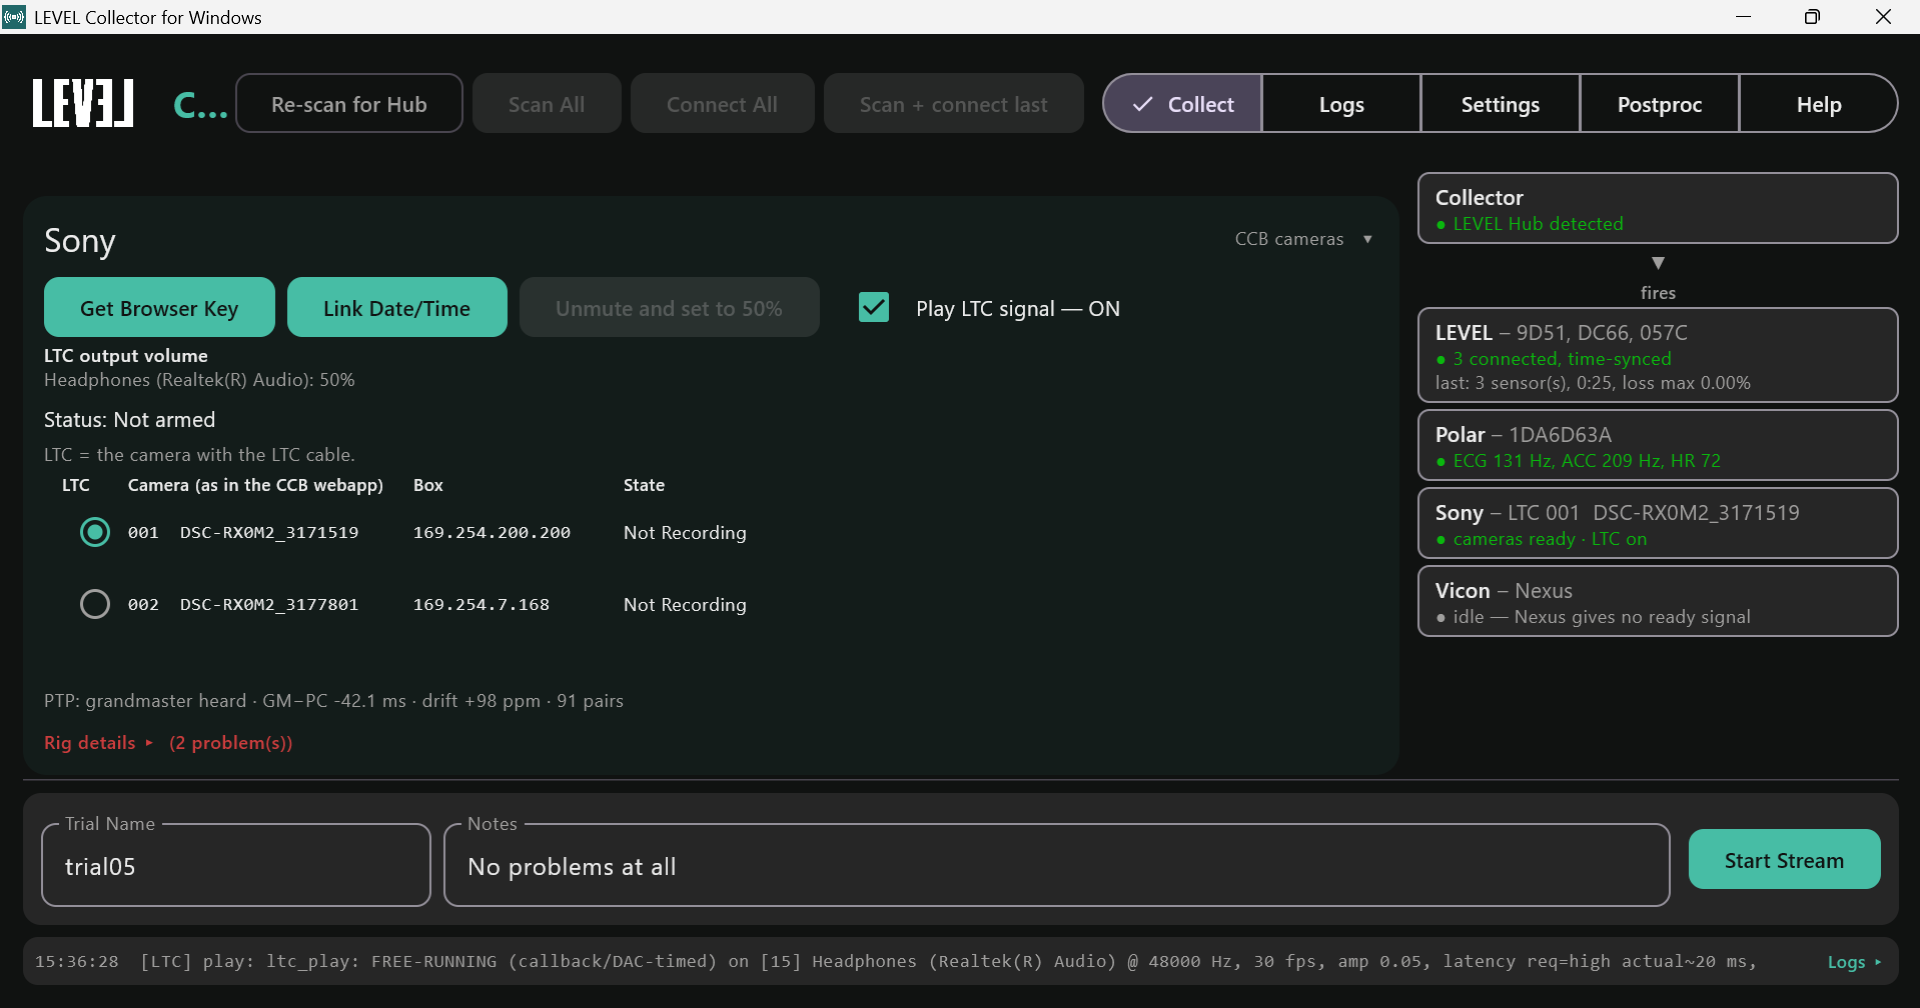
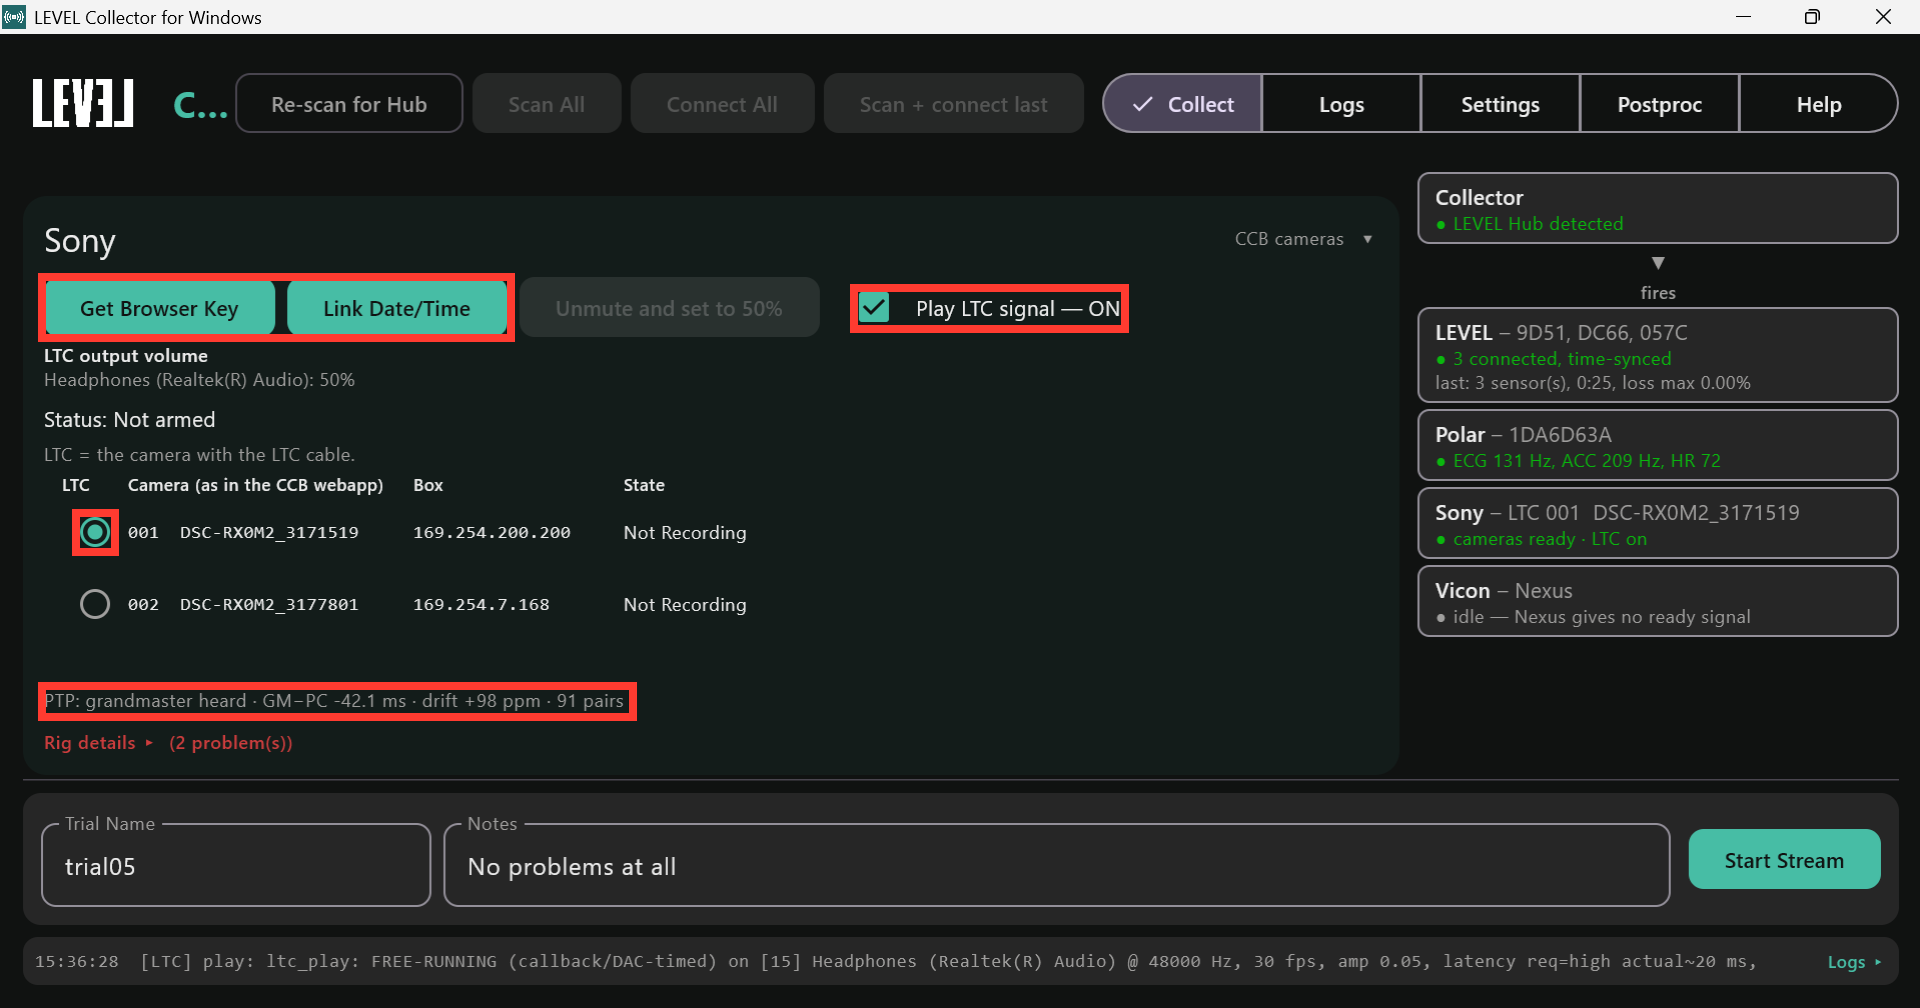
Windows guides: time sync always on, red boxes on screenshots
- Time Sync setting removed from Settings and LEVEL Sensors pages (always on)
- setting-up: drop master clause and On-launch aside
- installing: installer by email, LEVEL Motion start-menu group
- red highlight boxes on 8 Windows screenshots

diff --git a/docs/windows-settings.md b/docs/windows-settings.md
@@ -8,10 +8,10 @@ nav_order: 2
 # Settings
 
 The **Settings** tab is a stack of panels, each with a title you can click to
-fold it away: **Collector Settings**, **LEVEL Sensors**, **Sync**, then one
+fold it away: **Collector Settings**, **Sync**, then one
 panel for each other system that is on.
 
-![Settings tab: Collector Settings with the root folder, On launch switches and the Python interpreter, then the LEVEL Sensors panel with Time Sync](assets/windows-settings/collector-settings.png)
+![Settings tab: Collector Settings with the root folder, On launch switches and the Python interpreter](assets/windows-settings/collector-settings.png)
 
 ## Collector Settings
 
@@ -24,10 +24,10 @@ they are.
 
 ### On launch
 
-**Scan All**, or **Scan All** and **Connect All**, as soon as the Collector
-opens: the same as pressing those buttons at the top of the window. Connect
-All connects the sensors and strap of your last recording, so it needs the
-LEVEL Hub plugged in and the sensors awake at launch.
+Two switches, **Scan** and **Connect**: the Collector presses Scan All, and
+then Connect All, for you as soon as it opens. Connect uses the sensors and
+strap of your last recording, so it needs the LEVEL Hub plugged in and the
+sensors awake at launch.
 
 ### Python interpreter
 
@@ -36,11 +36,9 @@ the Polar, Sony and Vicon sidecars. Recording LEVEL sensors needs no Python. If
 you do not have Python, install [Miniconda](https://www.anaconda.com/download/success)
 (or any Python from [python.org](https://www.python.org/downloads/)) first.
 
-The Collector shows which Python it found: the path saved here if you set one,
-otherwise the Python that the `py -3` and `python` commands run (the one on
-your PATH, which Miniconda and the python.org installer set up). **Browse**
-picks a different one. It then checks that Python's default environment for the
-packages it needs, listing each one as present or missing. If your Python
+The pre-filled path is the Python on your PATH; **Browse** to pick a different
+one. The Collector then checks that Python for the packages it needs, listing
+each one as present or missing. If your Python
 already has them, nothing more is needed. Otherwise click one of:
 
 - **Set up minimum environment**: what plotting needs.
@@ -49,19 +47,10 @@ already has them, nothing more is needed. Otherwise click one of:
 
 Either one builds a private Python environment under your user folder
 (`~/.lvlmotion`), installs the packages there, and switches the Collector to it.
-Your own Python is never modified. It needs internet. The full environment downloads a few
-hundred megabytes and can take several minutes; the line at the bottom of every
-tab shows the latest step, and the **Logs** tab shows all of them. Wait for it
-to say it finished.
+Your own Python is never modified. The full environment download can take several minutes.
 
 If a package later shows as missing, run the same button again and restart the
 Collector.
-
-## LEVEL Sensors
-
-**Time Sync** keeps every sensor on the Hub on one shared clock. On every time
-the Collector starts; keep it on. Turning it off saves sensor battery for that
-session only, and applies at the next connection.
 
 ## Sync
 

diff --git a/docs/windows-installing.md b/docs/windows-installing.md
@@ -7,11 +7,12 @@ nav_order: 1
 
 # Installing and Updating
 
+For the latest installer, email [info@lvlmotion.com](mailto:info@lvlmotion.com).
+
 ## Installing
 
-1. Ask for the installer by email at [info@lvlmotion.com](mailto:info@lvlmotion.com).
-2. Run `LEVEL_Collector-<version>.exe`.
-3. Open **LEVEL Collector** from the Start menu (under **LvlMotion**) or the
+1. Run `LEVEL_Collector-<version>.exe`.
+2. Open **LEVEL Collector** from the Start menu (under **LEVEL Motion**) or the
    desktop shortcut.
 
 After installing, open **Settings** once: see [Settings](windows-settings) for
@@ -19,9 +20,9 @@ the Python setup (plotting, Polar, Sony and Vicon need it) and the sync table.
 
 ## Updating
 
-- New versions come as a new installer (by email). Run it: it replaces the old
-  version and keeps your settings, recordings and Python environment.
-- The window title and the first line of the **Logs** tab show the version.
+- Run the new installer: it replaces the old version and keeps your settings,
+  recordings and Python environment.
+- The **Help** tab shows the version at the top (also in the window title and the first line of the **Logs** tab).
 - If Windows refuses to install (the new version is not newer than the one
   installed), uninstall the old one first (Settings > Apps). Your settings and
   recordings are kept.

diff --git a/docs/windows-level-sensors.md b/docs/windows-level-sensors.md
@@ -30,8 +30,7 @@ Settings that matter, on the Settings tab:
 
 | Setting | Use |
 |---|---|
-| **LEVEL Sensors > Time Sync** | On every time the Collector starts; keep it on. Turn it off only to save sensor battery (for that session). |
-| **Collector Settings > On launch** | Scan All, or Scan All and Connect All, when the Collector opens |
+| **Collector Settings > On launch** | **Scan** and **Connect** switches: do that for you when the Collector opens |
 
 ## How to connect
 
@@ -71,8 +70,9 @@ batch is too low.
 
 ## Calibration
 
-None. After connecting, every sensor's **Sync** cell should read **B** (the
-beacon) or **S** (following). A red **✗** means it did not join the time sync:
+None. Time sync is always on: every sensor on the Hub shares one clock. After
+connecting, every sensor's **Sync** cell should read **B** (the beacon) or **S**
+(following). A red **✗** means it did not join the time sync:
 disconnect and connect again.
 
 ## How to stream

diff --git a/docs/windows-setting-up.md b/docs/windows-setting-up.md
@@ -12,9 +12,8 @@ nav_order: 3
 ## Turn on the systems you are using
 
 **Settings > Sync** lists every system. Tick the ones you use (Polar H10, Sony,
-Vicon) and keep the **Collector** as the one that starts a take (the master):
-**Start Stream** on the Collector starts everything. The table is explained on
-the [Settings](windows-settings) page.
+Vicon). **Start Stream** on the Collector starts everything. The table is
+explained on the [Settings](windows-settings) page.
 
 ## Get everything ready
 
@@ -28,9 +27,6 @@ the [Settings](windows-settings) page.
 3. Press **Connect All**. Some systems take a moment to get ready after
    connecting; each system's page says what to expect. **Scan + connect last**
    does both steps in one for the sensors and strap of your last recording.
-
-**Settings > On launch** can do the scanning and connecting for you when the
-Collector opens.
 
 ## The status sidebar
 
